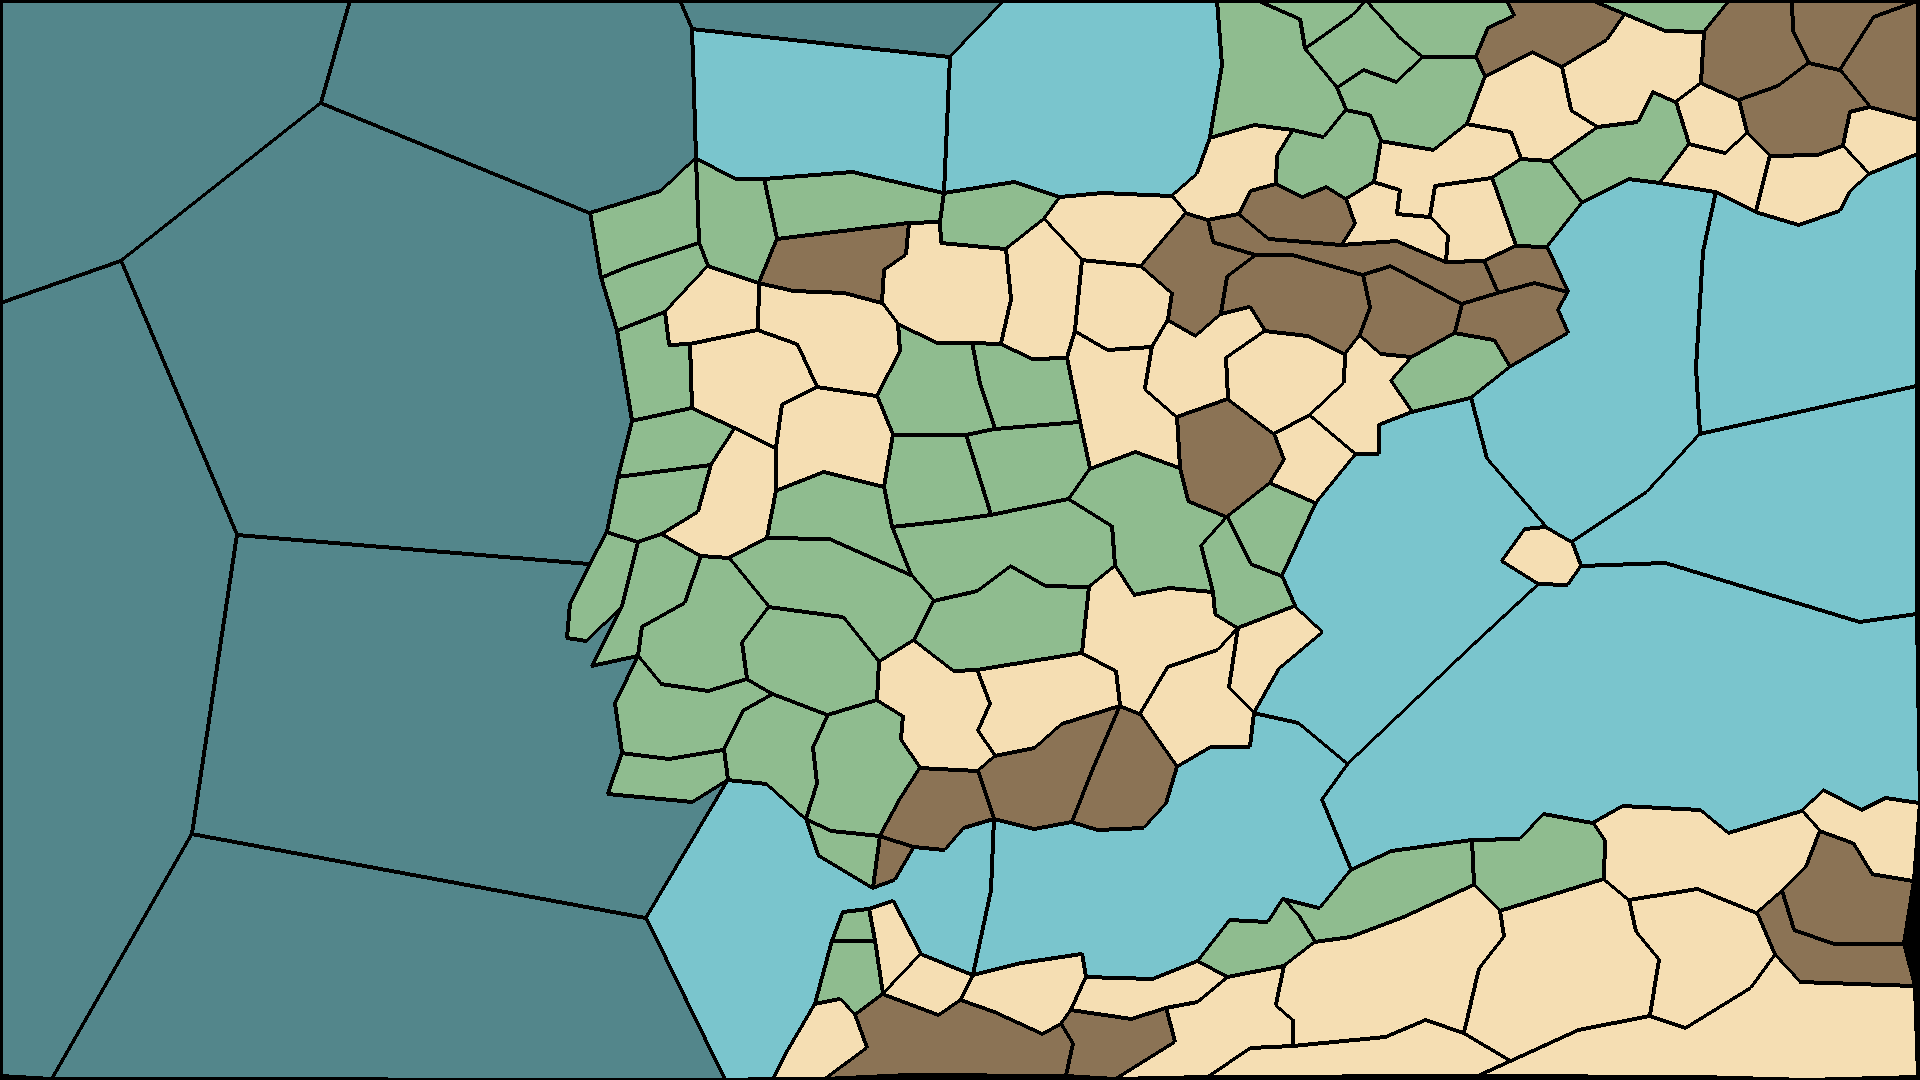
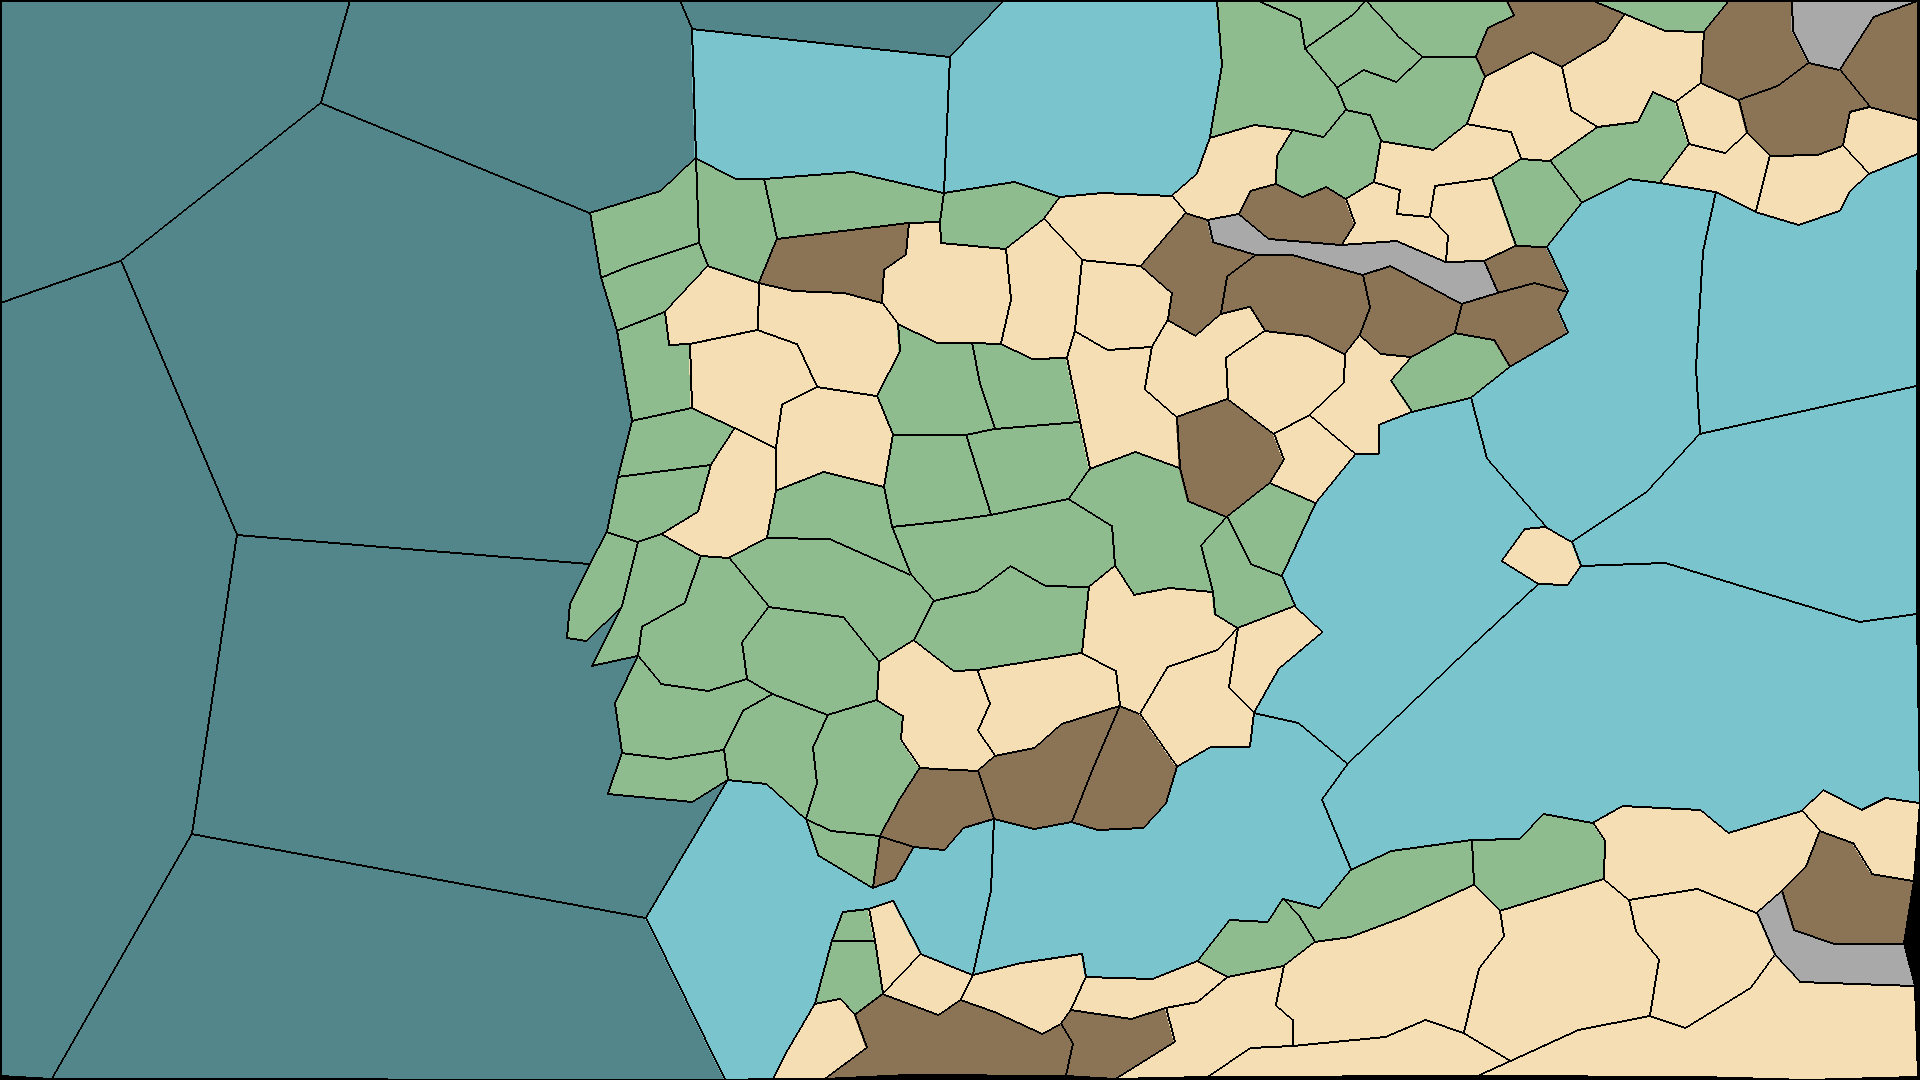
Added impassable terrain

Changed region(s): [[0.625, 0.1833, 0.7812, 0.275], [0.9062, 0.825, 1.0, 0.9167], [0.9062, 0.0, 1.0, 0.0611]]

diff --git a/province.py b/province.py
@@ -13,14 +13,15 @@ from ui import UI_Table, TextBox, TextAlignment
 class Province:
 
     # Constants
-    BORDER_THICKNESS = 4
+    BORDER_THICKNESS = 2
     HIGHLIGHT_COLOR = p.Color("yellow")
     TERRAIN_COLOR = {
         TerrainType.FLAT: p.Color("darkseagreen"),
         TerrainType.HILLS: p.Color("wheat"),
         TerrainType.MOUNTAIN: p.Color("burlywood4"),
         TerrainType.OCEAN: p.Color("cadetblue4"),
-        TerrainType.SEA: p.Color("cadetblue3")
+        TerrainType.SEA: p.Color("cadetblue3"),
+        TerrainType.IMPASSABLE_MOUNTAIN: p.Color("darkgray")
     }
 
     def __init__(self, province_id):
@@ -33,7 +34,7 @@ class Province:
         self.temperature: Union[int, None] = None
         self.neighbours: [int] = []
         self.is_selected = False
-        self.development = 1
+        self.development = 0
         self.info_ui_table = None
         self.nation: Union[Nation, None] = None
         self.occupied_by: Union[Nation, None] = None
@@ -142,18 +143,19 @@ class Province:
     def set_random_dev(self):
         # Set a random development value for non-water provinces
         if not self.terrain.is_water():
-            # Mean around 3, standard deviation determines the spread
-            mu = 3
-            sigma = 1.5
+            if self.terrain != TerrainType.IMPASSABLE_MOUNTAIN:
+                # Mean around 3, standard deviation determines the spread
+                mu = 3
+                sigma = 1.5
 
-            # Generate a random number with a normal distribution
-            random_number = random.normalvariate(mu, sigma)
-            # mountains get a penalty of 2
-            if self.terrain == TerrainType.MOUNTAIN:
-                random_number -= 2
+                # Generate a random number with a normal distribution
+                random_number = random.normalvariate(mu, sigma)
+                # mountains get a penalty of 2
+                if self.terrain == TerrainType.MOUNTAIN:
+                    random_number -= 2
 
-            # Ensure the number is within the desired range (1-10)
-            self.development = max(1, min(10, round(random_number)))
+                # Ensure the number is within the desired range (1-10)
+                self.development = max(1, min(10, round(random_number)))
 
         # update the UI element in the table
         element = self.info_ui_table.get_table_element_by_name("Attribute Development Value")
@@ -218,7 +220,10 @@ class Province:
         # Draw the province name on the screen
         text_size = 18
         font = p.font.Font('freesansbold.ttf', text_size)
-        text = font.render(self.name, False, p.Color("black"))
+        color =  p.Color("black")
+        if self.terrain == TerrainType.IMPASSABLE_MOUNTAIN:
+            color = p.Color("white")
+        text = font.render(self.name, False, color)
         text_rect = text.get_rect()
         text_rect.center = self.center_pos
         screen.blit(text, text_rect)
@@ -248,8 +253,7 @@ class Province:
     # region Pathing
     def is_passable(self):
         # Check if the province is passable
-        # TODO: implement impassable terrain?
-        return True
+        return self.terrain.get_movement_speed() > 0
 
     def cost_to_enter(self, cost_so_far: int, source_terrain: TerrainType, unit):
         # Calculate the cost to enter the province for a unit
@@ -287,7 +291,7 @@ class Province:
                 return self.lerp_dev_color()
             elif map_mode.is_political():
                 if self.nation is None:
-                    # print(f"No nation set for province {self.name}, id: {self.id}")
+                    print(f"No nation set for province {self.name}, id: {self.id}")
                     return default
                 else:
                     return self.nation.color
@@ -299,6 +303,8 @@ class Province:
         start_color = (255, 0, 0)  # Red
         end_color = (0, 255, 0)    # Green
         t = self.development / 10.0
+        if self.development == 0:
+            return p.Color("black")
         return self.lerp_color(start_color, end_color, t)
 
     @staticmethod

diff --git a/pathFinder.py b/pathFinder.py
@@ -61,34 +61,35 @@ class PathSearch:
                 assert isinstance(neighbour_id, int)
                 neighbour = self.world[neighbour_id]
                 assert isinstance(neighbour, Province)
-                if closed_set.__contains__(neighbour_id):
-                    continue  # ignore this completed neighbour
+                if neighbour.is_passable():  # skip all impassable terrain
+                    if closed_set.__contains__(neighbour_id):
+                        continue  # ignore this completed neighbour
 
-                total_pathfinding_cost_to_neighbour = (
-                    neighbour.cost_to_enter(
-                        g_score[current],
-                        self.world[current].terrain,
-                        self.unit
+                    total_pathfinding_cost_to_neighbour = (
+                        neighbour.cost_to_enter(
+                            g_score[current],
+                            self.world[current].terrain,
+                            self.unit
+                        )
                     )
-                )
 
-                if total_pathfinding_cost_to_neighbour < 0:
-                    # impassable terrain
-                    continue
+                    if total_pathfinding_cost_to_neighbour < 0:
+                        # impassable terrain
+                        continue
 
-                tgs = total_pathfinding_cost_to_neighbour
+                    tgs = total_pathfinding_cost_to_neighbour
 
-                if open_set.__contains__(neighbour_id) and tgs >= g_score[neighbour_id]:
-                    continue  # skip, shorter path already found
+                    if open_set.__contains__(neighbour_id) and tgs >= g_score[neighbour_id]:
+                        continue  # skip, shorter path already found
 
-                came_from[neighbour_id] = current
-                g_score[neighbour_id] = tgs
-                f_score[neighbour_id] = tgs + self.cost_func(neighbour, self.world[self.end])
+                    came_from[neighbour_id] = current
+                    g_score[neighbour_id] = tgs
+                    f_score[neighbour_id] = tgs + self.cost_func(neighbour, self.world[self.end])
 
-                if neighbour_id not in open_set:
-                    open_set.append(neighbour_id)
+                    if neighbour_id not in open_set:
+                        open_set.append(neighbour_id)
 
-                open_set_dict[neighbour_id] = f_score[neighbour_id]
+                    open_set_dict[neighbour_id] = f_score[neighbour_id]
 
     def reconstruct_path(self, came_from: {int: int}, current: int):
         # at this point, current is the goal

diff --git a/gamestate.py b/gamestate.py
@@ -37,6 +37,9 @@ def create_buttons():
     mountain_button = TerrainButton((620, 20), "Mountain", TerrainType.MOUNTAIN)
     buttons.append(mountain_button)
 
+    imp_button = TerrainButton((740, 20), "Impassable", TerrainType.IMPASSABLE_MOUNTAIN)
+    buttons.append(imp_button)
+
     return buttons
 
 
@@ -56,7 +59,7 @@ class GameState:
         self.is_paused = False
         self.map_mode: MapMode = MapMode.TERRAIN
         self.hide_names = True
-        self.developer_mode = True
+        self.developer_mode = False
         self.game_clock_ui: UI_Table = self.create_ui_clock()
         self.fps_counter: TextBox = self.create_fps_counter()
         self.parse_data()
@@ -70,6 +73,7 @@ class GameState:
         screen.fill(p.Color("black"))
         if self.map_mode == MapMode.TERRAIN:
             screen.blit(ref_image, (0, 0))
+            # pass
 
         selected_province = None
         for province_id, province in self.provinces.items():
@@ -251,7 +255,8 @@ class GameState:
         except Exception as e:
             print(f"Adding province {new_province.name} to json file failed! {e}")
 
-    def create_neighbour_pair(self, a: Province, b: Province):
+    @staticmethod
+    def create_neighbour_pair(a: Province, b: Province):
         a.add_neighbour(b.id)
         b.add_neighbour(a.id)
 

diff --git a/main.py b/main.py
@@ -31,7 +31,7 @@ def main():
         delta_time = clock.get_rawtime()
         p.display.flip()
 
-    p.image.save(screen, 'output/CreatedGame.png')
+    p.image.save(screen, 'output/LastTickCapture.png')
     print("Goodbye!")
 
 
@@ -97,10 +97,8 @@ def handle_mouse_button_down(event, state, main_state):
             if state.get_button_pressed(pos):
                 return
         elif event.button == 3:
-            clicked_province = state.get_province_clicked(pos)
-            if clicked_province is not None and clicked_province != state.selected_province:
-                unit = state.create_nation("Bob", state.get_province(state.selected_province))
-                state.set_unit_path(unit, clicked_province.id)
+            # TODO: do something on right click
+            return
 
     if event.button == 1:
         province = state.get_province_clicked(pos)
@@ -118,7 +116,7 @@ def handle_mouse_button_down(event, state, main_state):
         if province is not None:
             if state.selected_province is not None and state.selected_province == province.id:
                 state.selected_province = None
-            else:
+            elif province.is_passable():
                 state.selected_province = province.id
 
 

diff --git a/terraintype.py b/terraintype.py
@@ -7,6 +7,7 @@ class TerrainType(Enum):
     FLAT = auto()
     HILLS = auto()
     MOUNTAIN = auto()
+    IMPASSABLE_MOUNTAIN = auto()
 
     @classmethod
     def get_terrain(cls, terrain):
@@ -15,7 +16,8 @@ class TerrainType(Enum):
             "sea": cls.SEA,
             "flat": cls.FLAT,
             "hills": cls.HILLS,
-            "mountain": cls.MOUNTAIN
+            "mountain": cls.MOUNTAIN,
+            "impassable_mountain": cls.IMPASSABLE_MOUNTAIN
         }
         return terrain_map.get(terrain.lower(), None)  # Using lower() for case-insensitivity
 
@@ -24,15 +26,17 @@ class TerrainType(Enum):
 
     def get_movement_speed(self):
         if self == self.SEA:
-            return 2
+            return 2.0
         elif self == self.OCEAN:
             return 1.8
         elif self == self.FLAT:
-            return 1
+            return 1.0
         elif self == self.HILLS:
             return 0.7
         elif self == self.MOUNTAIN:
             return 0.3
+        elif self == self.IMPASSABLE_MOUNTAIN:
+            return -1.0
 
     def is_water(self):
         if self == self.SEA or self == self.OCEAN:
